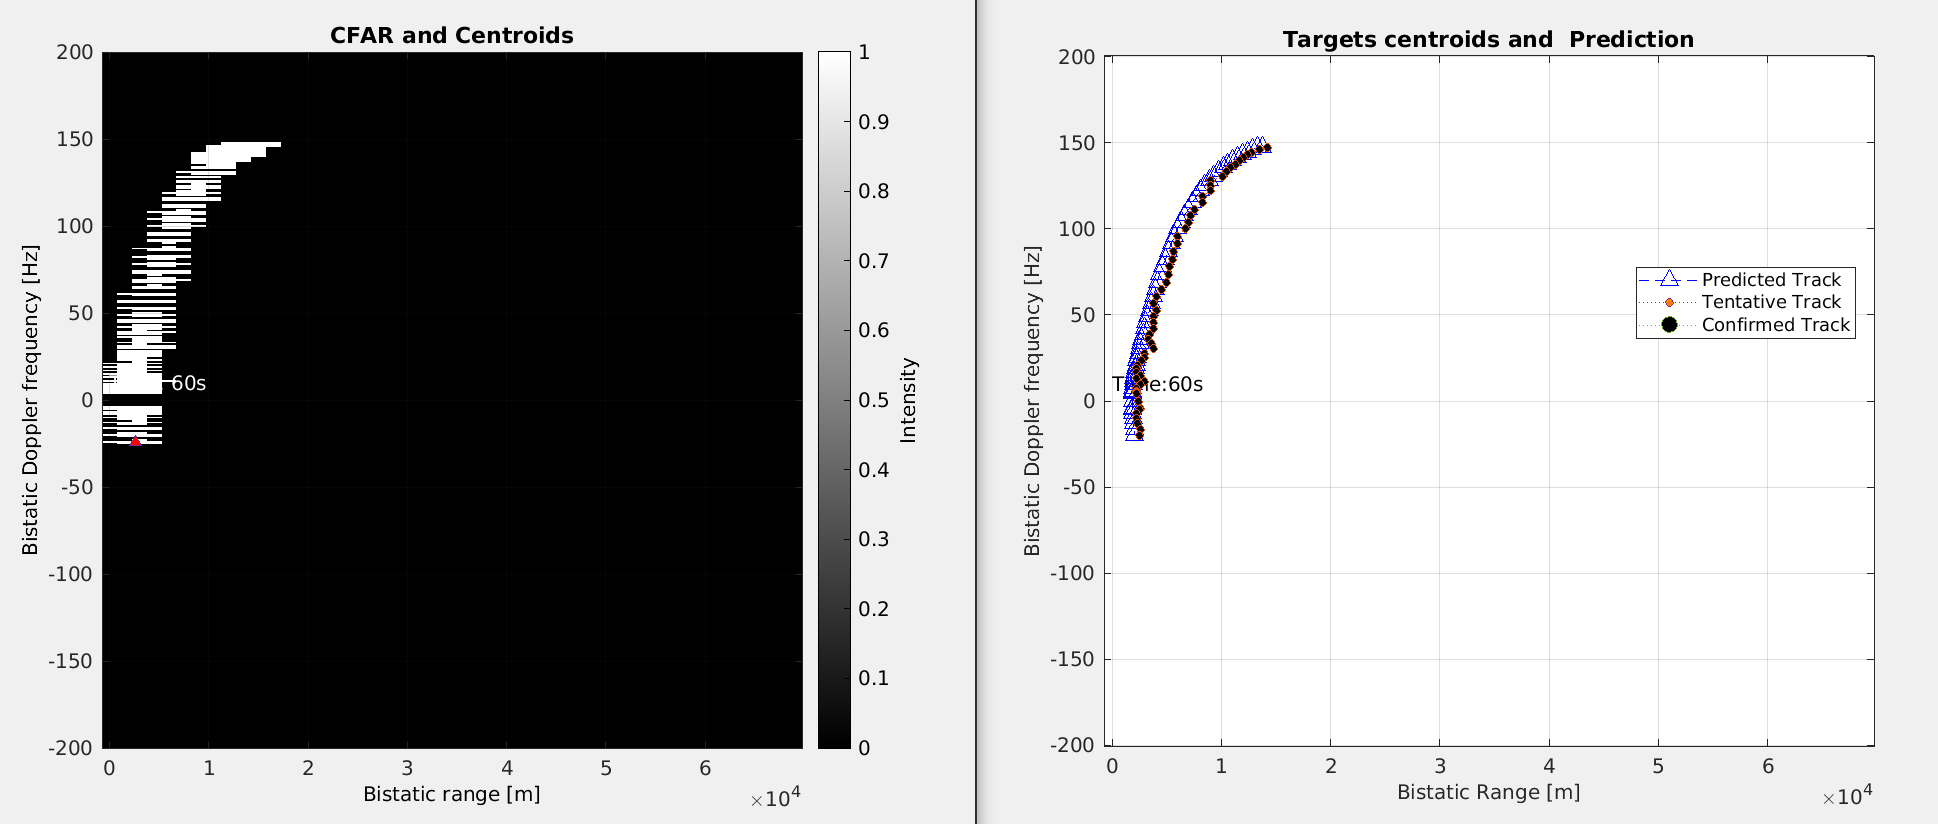
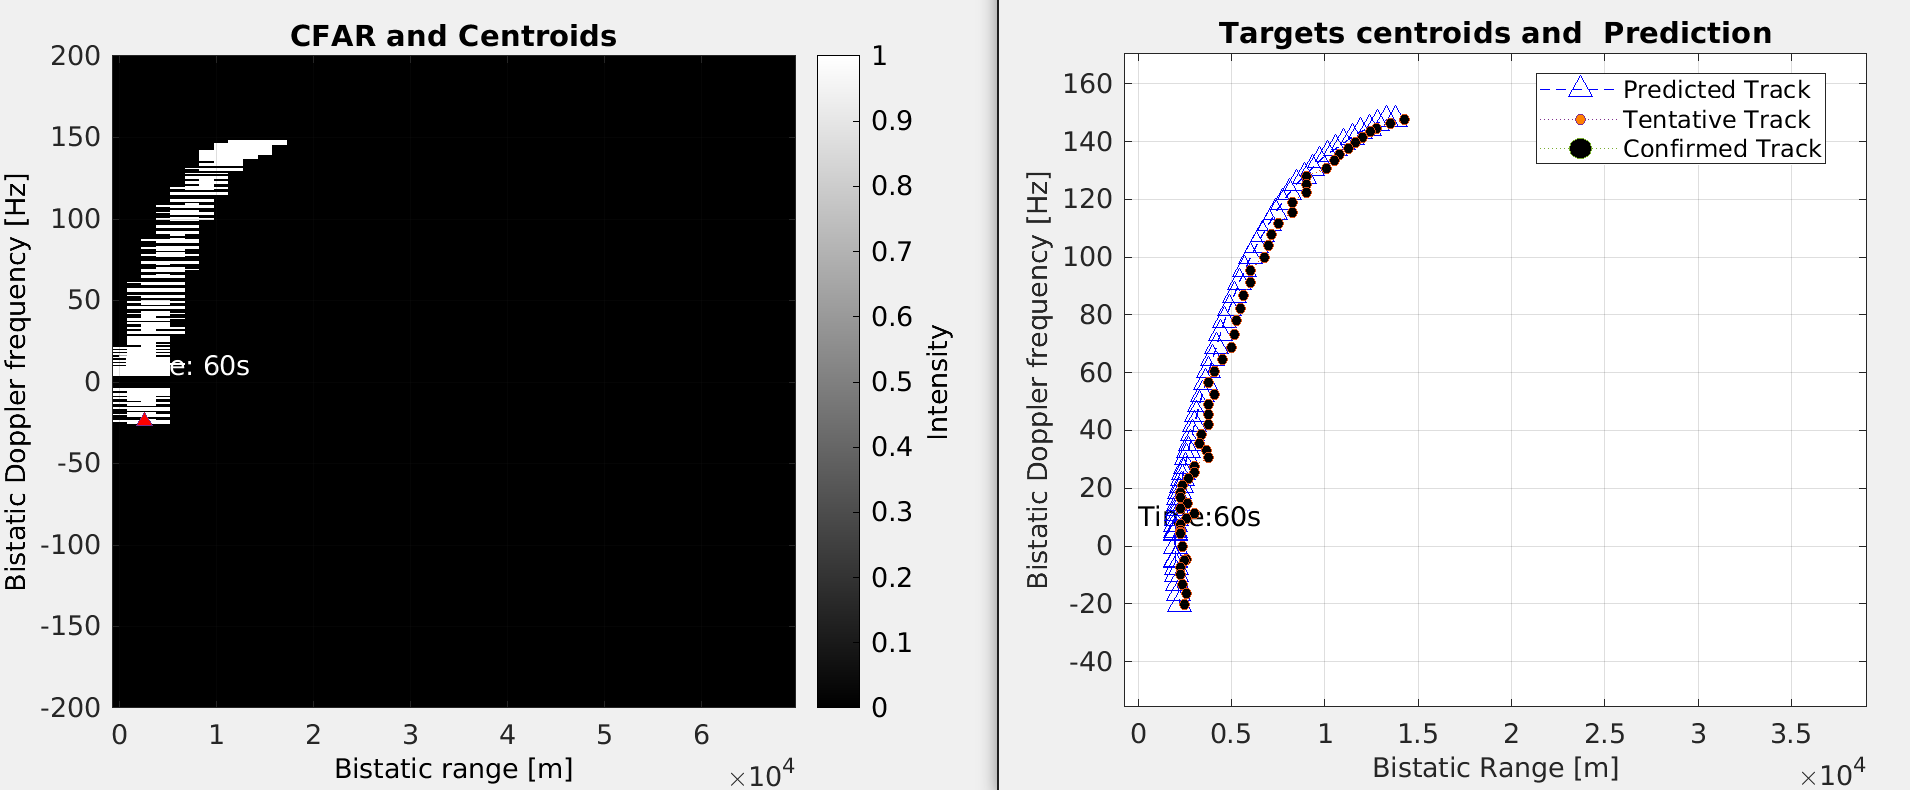
Kalman Filter changes

diff --git a/TrackingFilter-KalmanFilter/kalmanFilter.m b/TrackingFilter-KalmanFilter/kalmanFilter.m
@@ -5,7 +5,7 @@ classdef kalmanFilter
     end
     
     methods
-        function obj = kalmanFilter(dt,std_acc,x_std_meas,y_std_meas,X_initial)
+        function obj = kalmanFilter(dt,std_acc,r_std,rdot_std,X_initial)
         
             %Init funtion
             %Inputs: 
@@ -19,7 +19,7 @@ classdef kalmanFilter
             %Update Interval
             obj.dt = dt;
 
-            %wave number c/f
+            %wave number k=-lambda=c/f
             obj.k_d = -299792458/94e6; 
 
             %State transition matrix
@@ -34,14 +34,14 @@ classdef kalmanFilter
             obj.H = [1,0;
                      0,1;];
 
-            %Process Noise Covariance Matrix
+            %Process Noise Covariance Matrix For Random Acceleration
             obj.Q = [(dt^4)/4,(dt^3)/2;
                     (dt^3)/2,dt^2]*std_acc;
             
             %Standard deviation of measurement in doppler shift and delay
             %Measurement Error covariance matrix
-            obj.R = [x_std_meas^2,0;
-                     0,y_std_meas^2];
+            obj.R = [r_std^2,0.01*rdot_std*r_std;
+                     0.01*rdot_std*r_std,rdot_std^2];
 
             %Initial Innovation Error Matrix
             obj.S = [0,0;

diff --git a/multiTargetTracking/track.m b/multiTargetTracking/track.m
@@ -29,8 +29,8 @@ classdef track
             switch filterType
                 case 1
                     disp("Initializing Kalman Filter");
-                    std_meas=[2500,0.001];                      %Standard Deviation of the measurements in the x and y
-                    std_acc=1;                                 %Standard Deviation of the process noise
+                    std_meas=[10,0.1];                      %Standard Deviation of the measurements in the x and y
+                    std_acc=0.5;                                 %Standard Deviation of the process noise
                     KF_object = kalmanFilter(dt,std_acc,std_meas(1),std_meas(2),[x_initial(1);x_initial(2);]);
                     obj.trackingFilterObject = KF_object;
                                    
